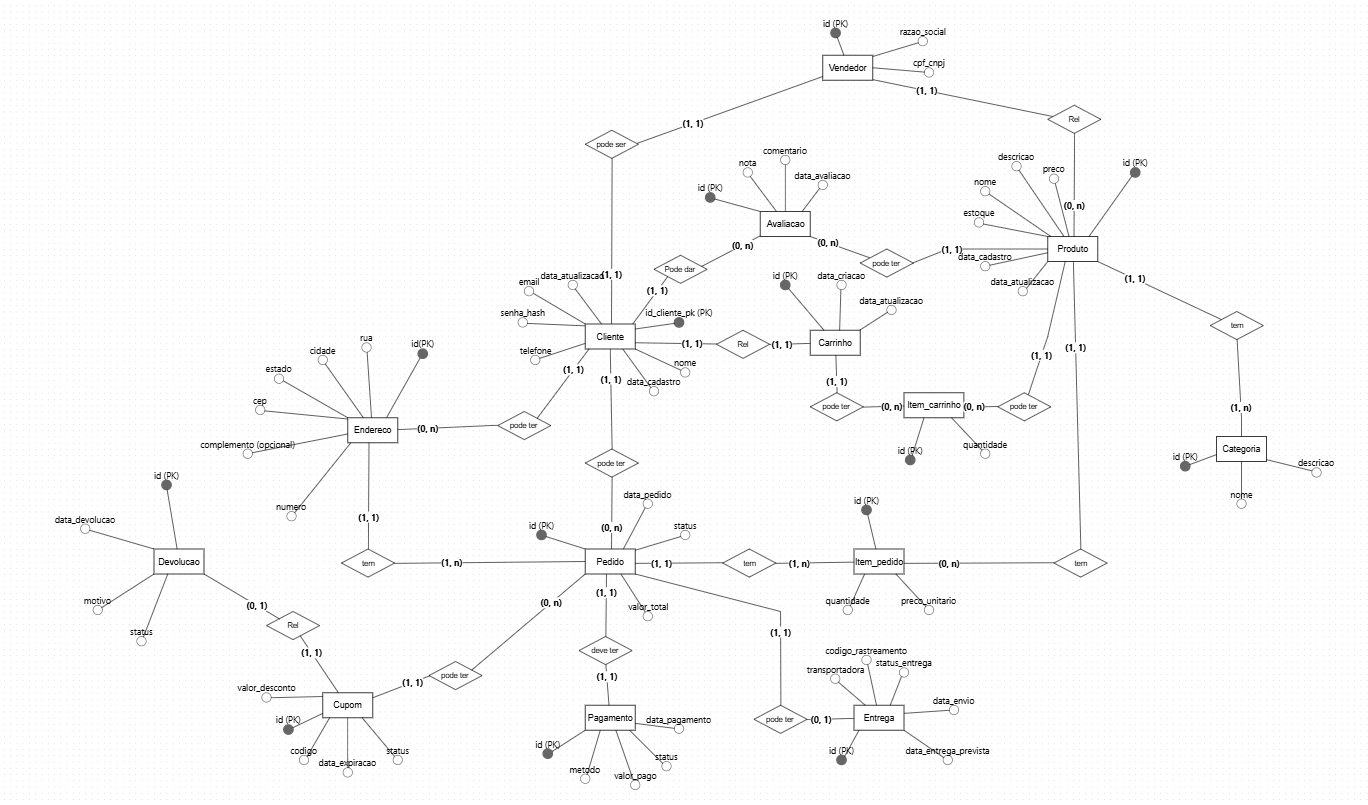
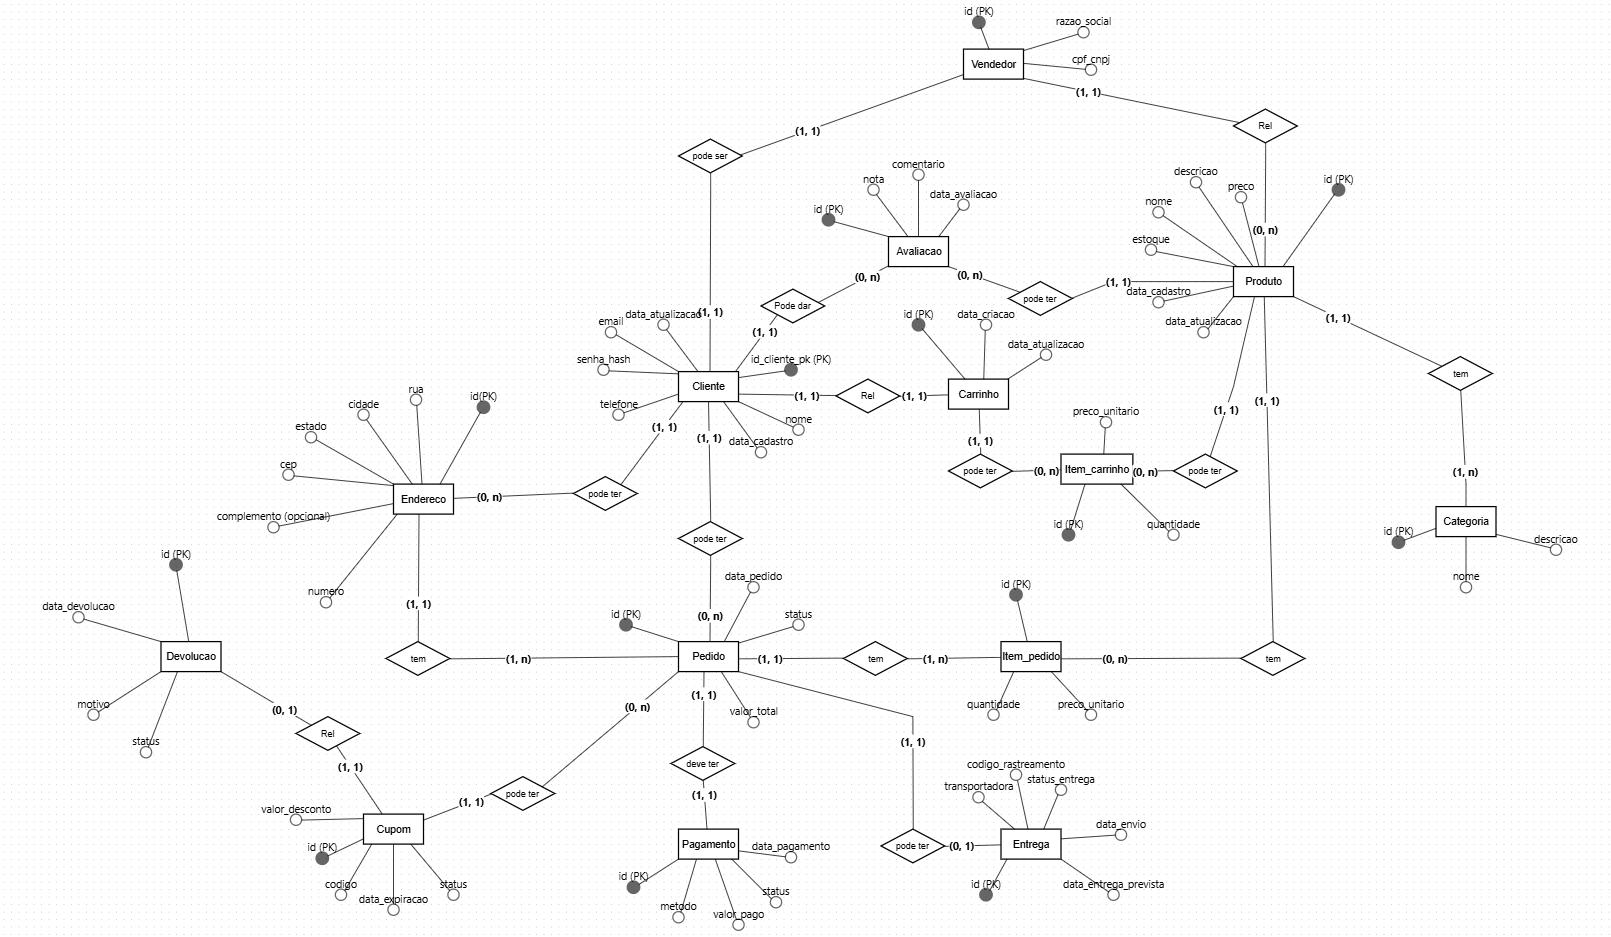
feat (domain): adiciona precoUnitario a ItemCarrinho (close #10)

diff --git a/src/main/java/br/edu/ifpb/es/daw/entities/ItemCarrinho.java b/src/main/java/br/edu/ifpb/es/daw/entities/ItemCarrinho.java
@@ -2,6 +2,7 @@ package br.edu.ifpb.es.daw.entities;
 
 import jakarta.persistence.*;
 
+import java.math.BigDecimal;
 import java.util.Objects;
 
 @Entity
@@ -12,6 +13,9 @@ public class ItemCarrinho {
     @GeneratedValue(strategy = GenerationType.SEQUENCE)
     @Column(name = "id_item_carrinho")
     private Long id;
+
+    @Column(name = "preco_unitario", nullable = false, precision = 10, scale = 2)
+    private BigDecimal precoUnitario;
 
     @Column(nullable = false)
     private Integer quantidade;
@@ -35,6 +39,10 @@ public class ItemCarrinho {
         this.quantidade = quantidade;
     }
 
+    public BigDecimal getPrecoUnitario() { return precoUnitario; }
+
+    public void setPrecoUnitario(BigDecimal precoUnitario) { this.precoUnitario = precoUnitario; }
+
     @Override
     public boolean equals(Object o) {
         if (o == null || getClass() != o.getClass()) return false;
@@ -44,13 +52,14 @@ public class ItemCarrinho {
 
     @Override
     public int hashCode() {
-        return Objects.hash(id, quantidade);
+        return Objects.hash(id, precoUnitario, quantidade);
     }
 
     @Override
     public String toString() {
         return "ItemCarrinho{" +
                 "id=" + id +
+                ", precoUnitario=" + precoUnitario +
                 ", quantidade=" + quantidade +
                 '}';
     }

diff --git a/src/main/java/br/edu/ifpb/es/daw/main/MainItemCarrinhoSave.java b/src/main/java/br/edu/ifpb/es/daw/main/MainItemCarrinhoSave.java
@@ -1,10 +1,12 @@
 package br.edu.ifpb.es.daw.main;
 
-import br.edu.ifpb.es.daw.dao.impl.ItemCarrinhoDAO;
+import br.edu.ifpb.es.daw.dao.ItemCarrinhoDAO;
 import br.edu.ifpb.es.daw.dao.impl.ItemCarrinhoDAOImpl;
 import br.edu.ifpb.es.daw.entities.ItemCarrinho;
 import br.edu.ifpb.es.daw.util.JPAUtil;
 import jakarta.persistence.EntityManager;
+
+import java.math.BigDecimal;
 
 public class MainItemCarrinhoSave {
 
@@ -14,6 +16,8 @@ public class MainItemCarrinhoSave {
         ItemCarrinhoDAO dao = new ItemCarrinhoDAOImpl(em);
 
         ItemCarrinho itemCarrinho = new ItemCarrinho();
+
+        itemCarrinho.setPrecoUnitario(BigDecimal.valueOf(100.25));
 
         itemCarrinho.setQuantidade(50);
 

diff --git a/src/main/java/br/edu/ifpb/es/daw/main/MainItemPedidoSave.java b/src/main/java/br/edu/ifpb/es/daw/main/MainItemPedidoSave.java
@@ -1,10 +1,7 @@
 package br.edu.ifpb.es.daw.main;
 
-import br.edu.ifpb.es.daw.dao.impl.CarrinhoDAO;
-import br.edu.ifpb.es.daw.dao.impl.CarrinhoDAOImpl;
-import br.edu.ifpb.es.daw.dao.impl.ItemPedidoDAO;
+import br.edu.ifpb.es.daw.dao.ItemPedidoDAO;
 import br.edu.ifpb.es.daw.dao.impl.ItemPedidoDAOImpl;
-import br.edu.ifpb.es.daw.entities.Carrinho;
 import br.edu.ifpb.es.daw.entities.ItemPedido;
 import br.edu.ifpb.es.daw.util.JPAUtil;
 import jakarta.persistence.EntityManager;

diff --git a/src/main/java/br/edu/ifpb/es/daw/main/MainItemPedidoDeleteAll.java b/src/main/java/br/edu/ifpb/es/daw/main/MainItemPedidoDeleteAll.java
@@ -1,6 +1,6 @@
 package br.edu.ifpb.es.daw.main;
 
-import br.edu.ifpb.es.daw.dao.impl.ItemPedidoDAO;
+import br.edu.ifpb.es.daw.dao.ItemPedidoDAO;
 import br.edu.ifpb.es.daw.dao.impl.ItemPedidoDAOImpl;
 import br.edu.ifpb.es.daw.util.JPAUtil;
 import jakarta.persistence.EntityManager;

diff --git a/src/main/java/br/edu/ifpb/es/daw/main/MainCarrinhoSave.java b/src/main/java/br/edu/ifpb/es/daw/main/MainCarrinhoSave.java
@@ -1,6 +1,6 @@
 package br.edu.ifpb.es.daw.main;
 
-import br.edu.ifpb.es.daw.dao.impl.CarrinhoDAO;
+import br.edu.ifpb.es.daw.dao.CarrinhoDAO;
 import br.edu.ifpb.es.daw.dao.impl.CarrinhoDAOImpl;
 import br.edu.ifpb.es.daw.entities.Carrinho;
 import br.edu.ifpb.es.daw.util.JPAUtil;

diff --git a/src/main/java/br/edu/ifpb/es/daw/main/MainCarrinhoDeleteAll.java b/src/main/java/br/edu/ifpb/es/daw/main/MainCarrinhoDeleteAll.java
@@ -1,6 +1,6 @@
 package br.edu.ifpb.es.daw.main;
 
-import br.edu.ifpb.es.daw.dao.impl.CarrinhoDAO;
+import br.edu.ifpb.es.daw.dao.CarrinhoDAO;
 import br.edu.ifpb.es.daw.dao.impl.CarrinhoDAOImpl;
 import br.edu.ifpb.es.daw.util.JPAUtil;
 import jakarta.persistence.EntityManager;

diff --git a/src/main/java/br/edu/ifpb/es/daw/dao/ItemCarrinhoDAO.java b/src/main/java/br/edu/ifpb/es/daw/dao/ItemCarrinhoDAO.java
@@ -1,6 +1,5 @@
-package br.edu.ifpb.es.daw.dao.impl;
+package br.edu.ifpb.es.daw.dao;
 
-import br.edu.ifpb.es.daw.dao.DAO;
 import br.edu.ifpb.es.daw.entities.ItemCarrinho;
 
 public interface ItemCarrinhoDAO extends DAO<ItemCarrinho> {

diff --git a/src/main/java/br/edu/ifpb/es/daw/dao/ItemPedidoDAO.java b/src/main/java/br/edu/ifpb/es/daw/dao/ItemPedidoDAO.java
@@ -1,6 +1,5 @@
-package br.edu.ifpb.es.daw.dao.impl;
+package br.edu.ifpb.es.daw.dao;
 
-import br.edu.ifpb.es.daw.dao.DAO;
 import br.edu.ifpb.es.daw.entities.ItemPedido;
 
 public interface ItemPedidoDAO extends DAO<ItemPedido> {

diff --git a/src/main/java/br/edu/ifpb/es/daw/dao/CarrinhoDAO.java b/src/main/java/br/edu/ifpb/es/daw/dao/CarrinhoDAO.java
@@ -1,6 +1,5 @@
-package br.edu.ifpb.es.daw.dao.impl;
+package br.edu.ifpb.es.daw.dao;
 
-import br.edu.ifpb.es.daw.dao.DAO;
 import br.edu.ifpb.es.daw.entities.Carrinho;
 
 public interface CarrinhoDAO extends DAO<Carrinho> {

diff --git a/src/main/java/br/edu/ifpb/es/daw/main/MainItemCarrinhoDeleteAll.java b/src/main/java/br/edu/ifpb/es/daw/main/MainItemCarrinhoDeleteAll.java
@@ -1,5 +1,6 @@
 package br.edu.ifpb.es.daw.main;
 
+import br.edu.ifpb.es.daw.dao.ItemCarrinhoDAO;
 import br.edu.ifpb.es.daw.dao.impl.*;
 import br.edu.ifpb.es.daw.util.JPAUtil;
 import jakarta.persistence.EntityManager;

diff --git a/src/main/java/br/edu/ifpb/es/daw/dao/impl/ItemCarrinhoDAOImpl.java b/src/main/java/br/edu/ifpb/es/daw/dao/impl/ItemCarrinhoDAOImpl.java
@@ -1,5 +1,6 @@
 package br.edu.ifpb.es.daw.dao.impl;
 
+import br.edu.ifpb.es.daw.dao.ItemCarrinhoDAO;
 import br.edu.ifpb.es.daw.entities.ItemCarrinho;
 import jakarta.persistence.EntityManager;
 

diff --git a/src/main/java/br/edu/ifpb/es/daw/dao/impl/ItemPedidoDAOImpl.java b/src/main/java/br/edu/ifpb/es/daw/dao/impl/ItemPedidoDAOImpl.java
@@ -1,5 +1,6 @@
 package br.edu.ifpb.es.daw.dao.impl;
 
+import br.edu.ifpb.es.daw.dao.ItemPedidoDAO;
 import br.edu.ifpb.es.daw.entities.ItemPedido;
 import jakarta.persistence.EntityManager;
 
